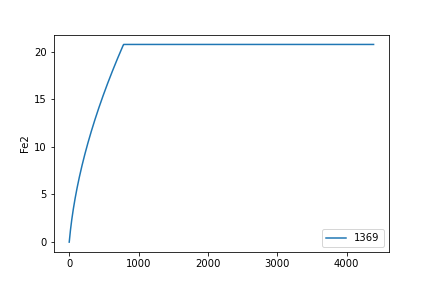
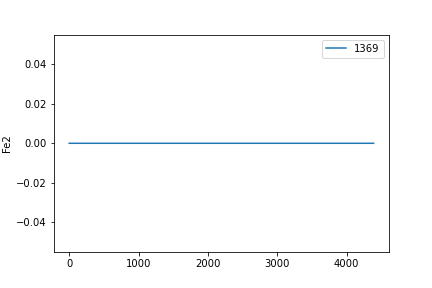
thermodynamik ist langsam aber läuft

diff --git a/Thermomicrobentest.py b/Thermomicrobentest.py
@@ -31,68 +31,39 @@ def thermodynamics_Ferm(product_dict, microbe_dict):
     return 1- Acetate/(KmA + Acetate)
 
 
-
 def thermodynamics(educt_dict, product_dict):
-    return 1
+    #return 1
     # print('thermononfermo')
     # print(educt_dict)
     # print(product_dict)
     # input()
-    Edu_Q = list()
-    Edu_DGf = list()
     
-    Prod_Q= list()
-    Prod_DGf =list()
-
-    for educt, edu_dict in educt_dict.items():  
-       # to get Q values of Educts
-        
-        Concentration = edu_dict['concentration']
-        Stoch = edu_dict['Stoch']
-        
-        Edu_Q.append(Concentration**Stoch)
-        
-        # to get Gibbs Energy of formation of the Educts
-        Edu_DGf.append(edu_dict['DGf'])
-        
-    Edu_Q_total = np.prod(Edu_Q)
-    Edu_DGf_total = sum(Edu_DGf)
-      
-    for product, produ_dict in product_dict.items():  
-     # to get Q values of the Products
-        
-      
-        Concentration = produ_dict['concentration']
-        Stoch = produ_dict['Stoch']
-        
-        Prod_Q.append(Concentration**Stoch)
-        
-        # to get Gibbs Energy of formation of the Products
-        
-        Prod_DGf.append(produ_dict['DGf'])
-        
-    Prod_Q_total = np.prod(Prod_Q)
-    Prod_DGf_total = sum(Prod_DGf)
-        
-           
-    #print('Q', Prod_Q_total, Edu_Q_total)
-    # input()
-    if Prod_Q_total == 0:
+    educt_concentrations = [educt['concentration'] for educt in educt_dict.values()]
+    educt_stoichiometries = [educt['Stoch'] for educt in educt_dict.values()]
+    
+    product_concentrations = [product['concentration'] for product in product_dict.values()]
+    product_stoichiometries = [product['Stoch'] for product in product_dict.values()]
+    
+    Q_above = np.prod(np.power(product_concentrations, product_stoichiometries))
+    Q_below = np.prod(np.power(educt_concentrations, educt_stoichiometries))
+    
+    if Q_above <= 0 or Q_below <= 0:
         return 1.0
+
+    log_Q = np.log( Q_above/Q_below )
     
-    if Edu_Q_total == 0: # TODO das ist nur ein safeguard, aber noch nicht auf sinn geprüft
-       return 1.0
-    
-    Q = Prod_Q_total/ Edu_Q_total # kann hier 0 stehen, wenn z.B acetate 0 ist?
-    DGs = Prod_DGf_total - Edu_DGf_total
+    DGf_educt = np.sum([educt['DGf'] for educt in educt_dict.values()])
+    DGf_product = np.sum([product['DGf'] for product in product_dict.values()])
+    DGs = DGf_product - DGf_educt
     
     R = 8.31446261815324 	# in J⋅K−1⋅mol−1
     T = 277.15 # 4 °C in Kelvin
     
-    DGr = DGs + R * T * math.log( Q )
-    # print('DGr', DGr)
-    DGmin = -26
-    return 1 - np.exp(min(0, DGr - DGmin)/(R*T))
+   # print('math.log(Q)', math.log(Q))
+    DGr = DGs + R * T * log_Q
+   # print('DGr', DGr)
+    DGmin = -26.0
+    return 1 - np.exp(np.minimum(0, DGr - DGmin)/(R*T))
 
 def GeneralPathway(microbe_dict, educt_dict, product_dict, pathway_name = ''):
     """
@@ -158,6 +129,7 @@ def GeneralPathway(microbe_dict, educt_dict, product_dict, pathway_name = ''):
         MMB = Biomass / (microbe_dict['Kmb'] + Biomass)  if Biomass > 0 else 0 
 
     else:
+        #thermodynamic_factor = 1
         thermodynamic_factor = thermodynamics(educt_dict, product_dict)
         MMB = Biomass  if Biomass > 0 else 0 
 

diff --git a/order.py b/order.py
@@ -34,8 +34,8 @@ pool_order = ['C',
 
 # durch auskommentieren bestimmen wir was optimiert wird und was nicht
 changeables_order = [
-                     'Vmax_Ferm',
                      'Vmax_help_Ferm',
+                     'Vmax_Ferm',
                      'Vmax_Fe3',
                      'Vmax_Homo',
                      'Vmax_Hydro',
@@ -100,23 +100,23 @@ def get_fixed_quantities():
 def get_initial_guesses():
     # specify initial guesses and bounds for the parameters to be optimized
     initial_guess_dict = dict()         #   init    lower upper  ok guesses to start with
-    initial_guess_dict['Vmax_help_Ferm'] =  (0.7,   0.01,1.71)  # 0.07,
-    initial_guess_dict['Vmax_Ferm'] =       (0.7,   0.01,0.11)  # 0.07
+    initial_guess_dict['Vmax_help_Ferm'] =  (1.517,   0.01,1.71)  # 0.07,
+    initial_guess_dict['Vmax_Ferm'] =       (0.103,   0.01,0.11)  # 0.07
     initial_guess_dict['Vmax_Fe3'] =        (0.3,   0.029, 1.9)  # 0.3
-    initial_guess_dict['Vmax_Homo'] =       (0.133, 0.005, 1.)   # 0.133
-    initial_guess_dict['Vmax_Hydro'] =      (0.086, 0.03, 0.2)   # 0.086
-    initial_guess_dict['Vmax_Ac'] =         (0.207, 0.05, 0.39)  # 0.207
-    initial_guess_dict['w_Ferm'] =          (0.05,  0.03, 0.05)  # 0.05
+    initial_guess_dict['Vmax_Homo'] =       (0.869, 0.005, 1.)   # 0.133
+    initial_guess_dict['Vmax_Hydro'] =      (0.182, 0.03, 0.2)   # 0.086
+    initial_guess_dict['Vmax_Ac'] =         (0.244, 0.05, 0.39)  # 0.207
+    initial_guess_dict['w_Ferm'] =          (0.032,  0.03, 0.05)  # 0.05
     initial_guess_dict['w_Fe3'] =           (0.013, 0.01, 0.05)  # 0.013
     initial_guess_dict['w_Hydro'] =         (0.024, 0.01, 0.05)  # 0.024
     initial_guess_dict['w_Homo'] =          (0.049, 0.01, 0.05)  # 0.049
-    initial_guess_dict['w_Ac'] =            (0.04,  0.01, 0.05)  # 0.04
+    initial_guess_dict['w_Ac'] =            (0.036,  0.01, 0.05)  # 0.04
     initial_guess_dict['Sensenmann'] =      (8.33e-5, 0, 8.44e-5)# 0
-    initial_guess_dict['Kmb_help_Ferm'] =   (10,    1,  10)      # 10
+    initial_guess_dict['Kmb_help_Ferm'] =   (4.009,    1,  10)      # 10
     # initial_guess_dict['Kmh_Ferm'] =        (10,    1,  10)    # 10
-    initial_guess_dict['Fe3'] =             (20.75,  2,  100)    # 10.75
-    initial_guess_dict['M_Ac'] =            (0.2,  1.3e-08,  5e05) # 0.05
-    initial_guess_dict['KmA_Ferm']=         (0.05, 0.05, 20)     # 0.05 # Diese Boundaries müssen anhander Acetatekurven angepasst werden
+    initial_guess_dict['Fe3'] =             (47.587,  2,  100)    # 10.75
+    initial_guess_dict['M_Ac'] =            (297.143,  1.3e-08,  5e05) # 0.05
+    initial_guess_dict['KmA_Ferm']=         (17.315, 0.05, 20)     # 0.05 # Diese Boundaries müssen anhander Acetatekurven angepasst werden
 
     return(initial_guess_dict)
 

diff --git a/Thermorefactored.py b/Thermorefactored.py
@@ -693,6 +693,6 @@ if __name__ == '__main__':
     
     #run_my_model()
 
-
+#%%
 
 
